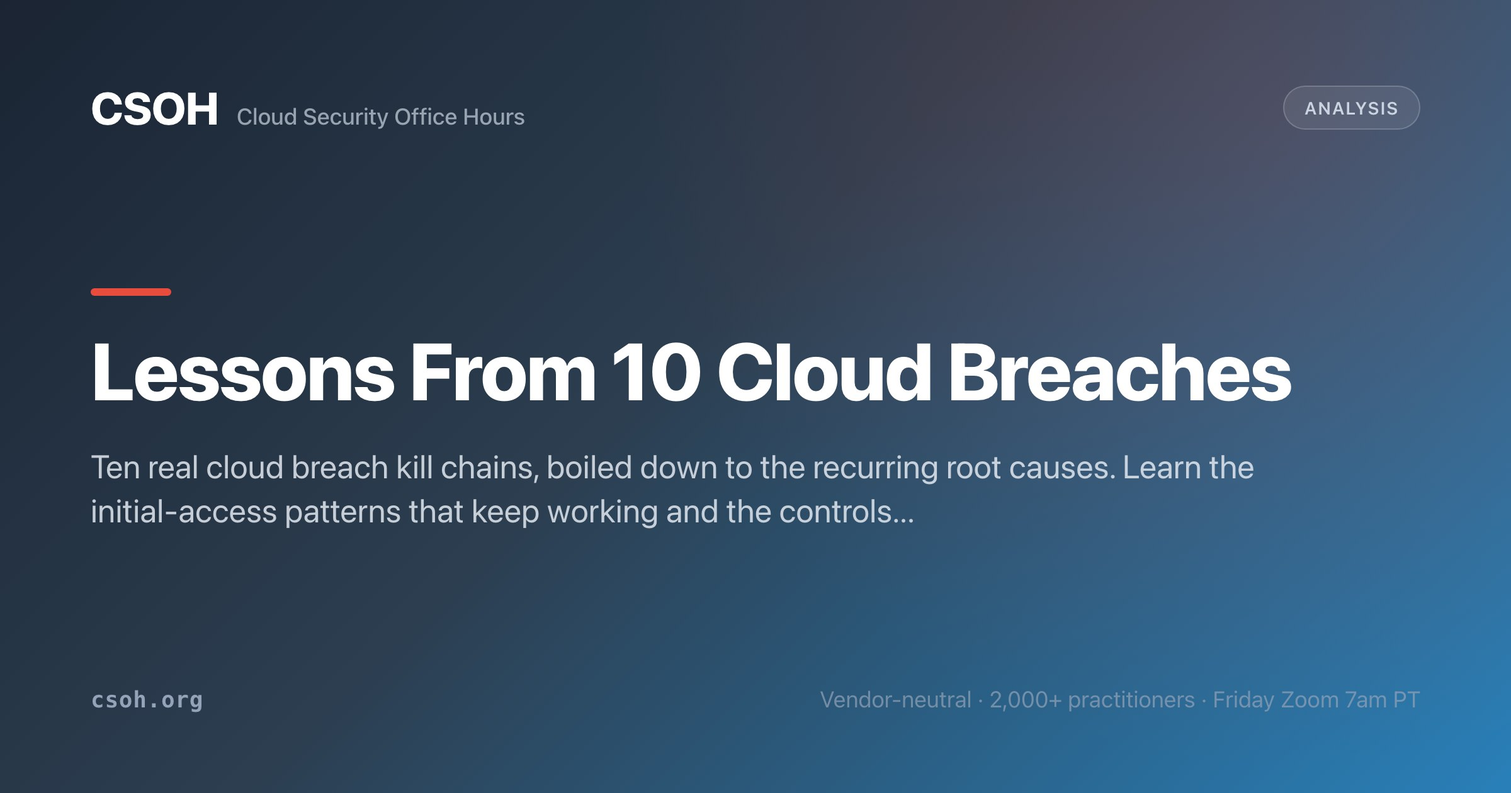
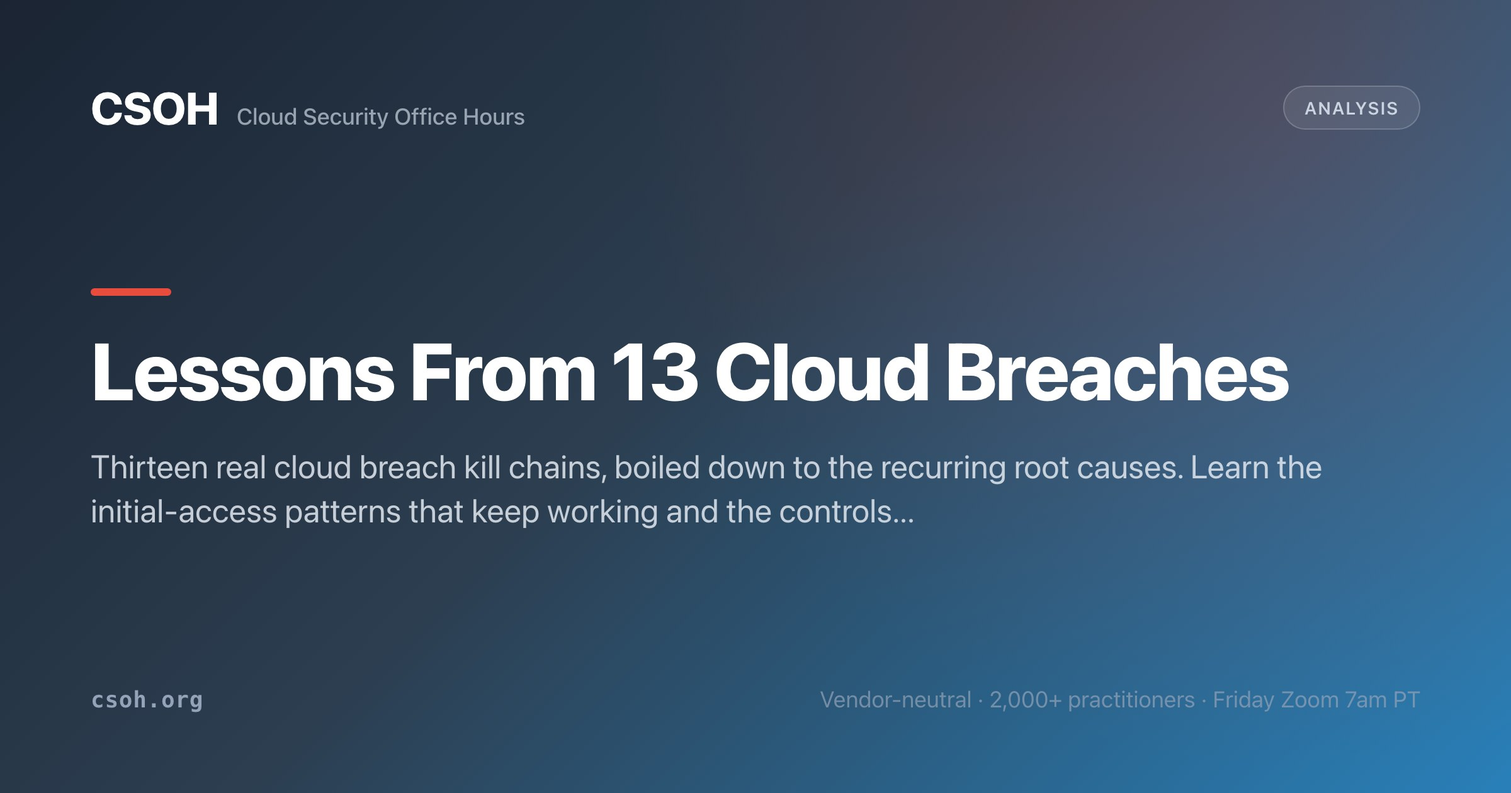
content: fold 3 new 2025 breaches into breach-lessons synthesis (10->13)
Extends Pattern 1 (credentials now include API keys + OAuth tokens),
Pattern 3 (blast radius of over-scoped keys/tokens), and Pattern 5
(supply chain is no longer a SolarWinds outlier - tj-actions + Drift).
Adds mapping-table rows, MITRE T1195.001/T1486/T1528 mappings, and the
supply-chain to-do. Updates counts and cross-page anchors to 13; regen
breach-lessons OG card.

Changed region(s): [[0.0625, 0.5571, 0.875, 0.619], [0.4062, 0.4333, 0.8438, 0.4952]]

diff --git a/breach-lessons.html b/breach-lessons.html
@@ -10,7 +10,7 @@
     <meta name="author" content="Shawn Nunley">
     <meta name="keywords"
         content="most common cloud breach root causes, cloud breach patterns, cloud breach lessons learned, initial access vectors cloud, stolen credentials breach, help desk social engineering, over-permissioned identity, missing MFA, supply chain compromise, MITRE ATT&amp;CK cloud breaches">
-    <title>Lessons From 10 Cloud Breaches - CSOH</title>
+    <title>Lessons From 13 Cloud Breaches - CSOH</title>
 
     <link rel="canonical" href="https://csoh.org/breach-lessons.html">
     <link rel="alternate" hreflang="en-US" href="https://csoh.org/breach-lessons.html">
@@ -22,7 +22,7 @@
     <meta name="theme-color" content="#0f172a">
     <meta name="apple-mobile-web-app-title" content="CSOH">
 
-    <meta property="og:title" content="Lessons From 10 Cloud Breaches - CSOH">
+    <meta property="og:title" content="Lessons From 13 Cloud Breaches - CSOH">
     <meta property="og:description"
         content="Ten real cloud breach kill chains, boiled down to the recurring root causes. Learn the initial-access patterns that keep working and the controls that stop them.">
     <meta property="og:site_name" content="Cloud Security Office Hours">
@@ -41,7 +41,7 @@
     <meta property="og:url" content="https://csoh.org/breach-lessons.html">
     <meta property="og:image" content="https://csoh.org/img/og/breach-lessons.jpg">
     <meta name="twitter:card" content="summary_large_image">
-    <meta name="twitter:title" content="Lessons From 10 Cloud Breaches">
+    <meta name="twitter:title" content="Lessons From 13 Cloud Breaches">
     <meta name="twitter:description"
         content="Ten real cloud breach kill chains, boiled down to the recurring root causes. Learn the initial-access patterns that keep working and the controls that stop them.">
     <meta name="twitter:image" content="https://csoh.org/img/og/breach-lessons.jpg">
@@ -58,7 +58,7 @@
     {
       "@context": "https://schema.org",
       "@type": "Article",
-      "headline": "Lessons From 10 Cloud Breaches",
+      "headline": "Lessons From 13 Cloud Breaches",
       "description": "Ten real cloud breach kill chains, boiled down to the recurring root causes. Learn the initial-access patterns that keep working and the controls that stop them.",
       "author": {
         "@type": "Person",
@@ -105,7 +105,7 @@
           "name": "What is the most common root cause of cloud breaches?",
           "acceptedAnswer": {
             "@type": "Answer",
-            "text": "Identity is. Across these ten kill chains, the single largest bucket is credential and identity abuse: stolen or purchased credentials, missing or bypassed MFA, and over-permissioned identities and tokens. Exploited software vulnerabilities are far down the list. If you only have budget for one thing, invest in identity."
+            "text": "Identity is. Across these thirteen kill chains, the single largest bucket is credential and identity abuse: stolen or purchased credentials, missing or bypassed MFA, and over-permissioned identities and tokens. Exploited software vulnerabilities are far down the list. If you only have budget for one thing, invest in identity."
           }
         },
         {
@@ -121,7 +121,7 @@
           "name": "How do MITRE ATT&CK techniques help me learn from breaches?",
           "acceptedAnswer": {
             "@type": "Answer",
-            "text": "Mapping each breach to ATT&CK techniques turns ten stories into a short, deduplicated list of behaviors you can build detections and controls for. When the same techniques (T1078 Valid Accounts, T1552 Unsecured Credentials) show up in breach after breach, you know exactly where to spend your detection-engineering effort first."
+            "text": "Mapping each breach to ATT&CK techniques turns thirteen stories into a short, deduplicated list of behaviors you can build detections and controls for. When the same techniques (T1078 Valid Accounts, T1552 Unsecured Credentials) show up in breach after breach, you know exactly where to spend your detection-engineering effort first."
           }
         }
       ]
@@ -307,8 +307,8 @@
     <section class="hero">
       <div class="hero-inner">
         <div class="hero-text">
-          <h1>Lessons From 10 Cloud Breaches</h1>
-          <p>Ten cloud breach kill chains, one set of recurring root causes. Read them together and the same handful of mistakes show up again and again - see the full set on the <a href="breach-timeline.html">breach timeline</a>.</p>
+          <h1>Lessons From 13 Cloud Breaches</h1>
+          <p>Thirteen cloud breach kill chains, one set of recurring root causes. Read them together and the same handful of mistakes show up again and again - see the full set on the <a href="breach-timeline.html">breach timeline</a>.</p>
           <div class="cta-buttons">
             <a href="https://csoh.kit.com/39feb4f397" class="btn btn-primary" target="_blank" rel="noopener noreferrer">Join Friday Zoom</a>
             <a href="glossary.html" class="btn btn-secondary">Cloud security glossary</a>
@@ -327,7 +327,7 @@
 </div>
 
 <div class="toc"><h2>On this page</h2><ol>
-<li><a href="#the-breaches">The ten breaches</a></li>
+<li><a href="#the-breaches">The thirteen breaches</a></li>
 <li><a href="#pattern-stolen-creds">Pattern 1: Stolen, purchased, and infostealer credentials</a></li>
 <li><a href="#pattern-help-desk">Pattern 2: Help desk and human social engineering</a></li>
 <li><a href="#pattern-over-permissioned">Pattern 3: Over-permissioned identities and tokens</a></li>
@@ -340,7 +340,7 @@
 </ol></div>
 
 <section id="the-breaches">
-<h2>The ten breaches</h2>
+<h2>The thirteen breaches</h2>
 <p>The chains synthesized here span 1994 to the present. Old and new belong on the same page on purpose: the tooling changed, the root causes did not. A phone call to a Novell help desk in 1994 and a vishing call to an MGM help desk in 2023 are the same attack.</p>
 <ul>
 <li><a href="breaches/mitnick-novell.html">Mitnick / Novell (1994)</a> - OSINT, pretexting, and a phone call talked an employee out of dial-up access and NetWare source code.</li>
@@ -353,15 +353,19 @@
 <li><a href="breaches/scattered-spider-mgm.html">Scattered Spider / MGM (2023)</a> - LinkedIn OSINT fed a vishing call to the help desk, yielding Okta super-admin, Azure AD, and encrypted ESXi servers.</li>
 <li><a href="breaches/snowflake-unc5537.html">Snowflake / UNC5537 (2024)</a> - infostealer credentials logged into accounts with no MFA, then bulk-exfiltrated data from 165+ organizations.</li>
 <li><a href="breaches/promptware.html">Promptware kill chain (2024-26)</a> - indirect prompt injection poisoned an AI agent's context, establishing persistence and covert command and control.</li>
+<li><a href="breaches/codefinger-s3.html">Codefinger / S3 (2025)</a> - stolen AWS keys encrypted victims' S3 buckets with AWS's own SSE-C, holding the only copy of the key and setting 7-day delete timers as ransom pressure.</li>
+<li><a href="breaches/tj-actions-changed-files.html">tj-actions/changed-files (2025)</a> - a compromised GitHub Action (CVE-2025-30066) was retagged to a malicious commit that dumped CI runner memory and printed secrets into public build logs across 23,000+ repositories.</li>
+<li><a href="breaches/salesloft-drift-unc6395.html">Salesloft Drift / UNC6395 (2025)</a> - stolen OAuth tokens from a third-party Salesforce integration drove bulk SOQL exfiltration across 700+ tenants, then the exports were mined for embedded cloud secrets.</li>
 </ul>
 <p>Now the patterns. Most breaches belong to more than one, because real kill chains stack failures.</p>
 </section>
 
 <section id="pattern-stolen-creds">
 <h2>Pattern 1: Stolen, purchased, and infostealer credentials</h2>
-<p><strong>Shows up in:</strong> <a href="breaches/uber.html">Uber</a>, <a href="breaches/snowflake-unc5537.html">Snowflake / UNC5537</a>, <a href="breaches/lastpass.html">LastPass</a>.</p>
+<p><strong>Shows up in:</strong> <a href="breaches/uber.html">Uber</a>, <a href="breaches/snowflake-unc5537.html">Snowflake / UNC5537</a>, <a href="breaches/lastpass.html">LastPass</a>, <a href="breaches/codefinger-s3.html">Codefinger / S3</a>, <a href="breaches/salesloft-drift-unc6395.html">Salesloft Drift / UNC6395</a>.</p>
 <p>The most boring initial-access vector is also the most common: the attacker already has a valid password. Nobody exploited a zero-day to get in. In Uber, the attacker bought a contractor's credentials off a dark-web marketplace. In Snowflake, an infostealer running on employee and contractor machines - some of them personal, unmanaged devices - harvested Snowflake logins that had been valid for years. In LastPass, the second-stage intrusion planted a keylogger on a DevOps engineer's home computer to capture the master password for a privileged vault.</p>
 <p>The lesson is that your identity perimeter includes machines you do not manage. A credential is only as trustworthy as the endpoint it was typed on, and infostealer malware has turned every unmanaged laptop into a credential faucet. The controls that matter here are phishing-resistant MFA (so a stolen password alone is useless), short-lived credentials instead of long-lived static logins, and killing standing access to sensitive systems from unmanaged devices. This is the core argument for <a href="zero-trust.html">zero trust</a>: never assume a valid credential means a trusted session.</p>
+<p>The 2025 chains extend "credential" past the password. Codefinger never touched a login screen - it authenticated with a leaked long-lived AWS access key and used it to encrypt S3 buckets. Salesloft Drift was breached with stolen OAuth tokens for a third-party integration, no password or MFA prompt involved. API keys, access keys, and OAuth tokens are credentials too, and they leak from git history, CI logs, and integration vendors just as readily as passwords leak from infostealers. Rotate them, scope them, expire them, and monitor for their use from unfamiliar sources.</p>
 </section>
 
 <section id="pattern-help-desk">
@@ -373,9 +377,10 @@
 
 <section id="pattern-over-permissioned">
 <h2>Pattern 3: Over-permissioned identities and tokens</h2>
-<p><strong>Shows up in:</strong> <a href="breaches/capital-one.html">Capital One</a>, <a href="breaches/microsoft-sas-leak.html">Microsoft SAS leak</a>, <a href="breaches/storm-0558.html">Storm-0558</a>.</p>
+<p><strong>Shows up in:</strong> <a href="breaches/capital-one.html">Capital One</a>, <a href="breaches/microsoft-sas-leak.html">Microsoft SAS leak</a>, <a href="breaches/storm-0558.html">Storm-0558</a>, <a href="breaches/codefinger-s3.html">Codefinger / S3</a>, <a href="breaches/salesloft-drift-unc6395.html">Salesloft Drift / UNC6395</a>.</p>
 <p>This is the pattern that turns a foothold into a catastrophe. In Capital One, an SSRF bug was the way in, but the reason it mattered was the IAM role reachable from the instance metadata service had far more permission than the web application needed, including broad S3 read access. In the Microsoft SAS leak, the exposed token was not just leaked, it was scoped to an entire storage account with write access and a multi-decade expiry, so a single accidental commit exposed 38TB. In Storm-0558, a single consumer signing key turned out to be usable, through a validation flaw, to forge tokens for enterprise and government accounts far beyond its intended scope.</p>
 <p>The connective tissue is blast radius. Every one of these was survivable if the compromised identity or token had been scoped to only what it needed. Least privilege is not a compliance checkbox, it is the difference between an incident and a disaster. Practically: scope tokens narrowly and give them short lifetimes, prefer <a href="iam.html">IAM</a> roles with tightly bound policies over broad ones, enforce IMDSv2 so SSRF cannot trivially steal instance credentials, and continuously audit for identities whose granted permissions vastly exceed their used permissions. This is exactly the gap a <a href="cspm-vs-cnapp.html">CNAPP</a> or CIEM tool is built to surface (disclosure: the site's author works at Wiz).</p>
+<p>The 2025 chains are pure blast-radius stories. The Codefinger keys carried enough S3 permission to both read and overwrite objects, so a single leaked key could encrypt an entire bucket. The Salesloft Drift OAuth tokens were scoped to broad Salesforce API access, so one compromised integration exposed every object in hundreds of tenants. Third-party integration tokens deserve the same least-privilege scrutiny as your own IAM roles - grant them the minimum objects and API scopes they need, and revoke the ones you no longer use.</p>
 </section>
 
 <section id="pattern-mfa">
@@ -387,16 +392,17 @@
 
 <section id="pattern-supply-chain">
 <h2>Pattern 5: Supply-chain and build-pipeline compromise</h2>
-<p><strong>Shows up in:</strong> <a href="breaches/solarwinds.html">SolarWinds</a>.</p>
-<p>SolarWinds is the outlier that everyone should study precisely because it did not follow the identity playbook. The attackers did not phish a user or steal a password to start. They compromised the build system and inserted the SUNBURST backdoor into the software itself, so that SolarWinds cryptographically signed and shipped the malware to thousands of customers as a trusted update. The victims did nothing wrong at install time; they trusted a signed update from a vendor they had every reason to trust.</p>
+<p><strong>Shows up in:</strong> <a href="breaches/solarwinds.html">SolarWinds</a>, <a href="breaches/tj-actions-changed-files.html">tj-actions/changed-files</a>, <a href="breaches/salesloft-drift-unc6395.html">Salesloft Drift / UNC6395</a>.</p>
+<p>SolarWinds was once the outlier that did not follow the identity playbook; by 2025 the supply chain is a well-worn attack surface. The attackers did not phish a user or steal a password to start. They compromised the build system and inserted the SUNBURST backdoor into the software itself, so that SolarWinds cryptographically signed and shipped the malware to thousands of customers as a trusted update. The victims did nothing wrong at install time; they trusted a signed update from a vendor they had every reason to trust.</p>
 <p>This is a different threat model, and it is why software supply chain security is its own discipline. The controls live in your <a href="ci-cd.html">CI/CD</a> pipeline: hardened and isolated build environments, verified reproducible builds, artifact signing and provenance (the SLSA framework and tools like Sigstore), and a software bill of materials so you know what is actually in what you ship and consume. It also reframes vendor risk: you inherit the security of everyone whose code runs in your environment. The later Golden SAML pivot in the same intrusion also ties back to Pattern 3, forging trusted authentication material to move from on-prem into the cloud.</p>
+<p>The 2025 chains show the supply chain moving up-stack. In tj-actions/changed-files, the compromised dependency was a single popular GitHub Action: attackers stole a bot's token, retagged every version to a malicious commit, and turned tens of thousands of CI pipelines into secret-leaking machines - a build-pipeline attack that needed no vendor of SolarWinds' size. In Salesloft Drift, the compromised link in the chain was a SaaS integration vendor whose OAuth tokens unlocked hundreds of downstream Salesforce tenants. Pin third-party actions to full commit SHAs rather than mutable tags, treat every integration you authorize as part of your attack surface, and remember that your build pipeline and your SaaS OAuth grants are supply chains too.</p>
 </section>
 
 <section id="pattern-logging">
 <h2>Pattern 6: You could not even reconstruct what happened</h2>
 <p><strong>Shows up in:</strong> <a href="breaches/storm-0558.html">Storm-0558</a> (and it made every other breach worse).</p>
 <p>Storm-0558 exposed a second, quieter failure: many affected organizations could not tell whether they had been accessed, because the relevant sign-in and mailbox-access logs were only available in higher-priced licensing tiers. When forged tokens are indistinguishable from legitimate ones, logs are the only way to find them, and if you do not have the logs, the honest answer to "were we breached" is "we cannot say." That is not an incident-response posture, it is a coin flip.</p>
-<p>Logging is not a detection nicety, it is the substrate that <a href="detection-engineering.html">detection engineering</a> and <a href="incident-response.html">incident response</a> are built on. Across all ten breaches, the ones that were caught early were caught because someone had the telemetry and was looking at it; the ones that ran for months or years (the Microsoft SAS token sat public for about three years) ran that long partly because nobody was watching the right signal. Turn on cloud audit logging (CloudTrail, Azure sign-in and audit logs, GCP audit logs), retain it long enough to matter, ship it somewhere an attacker who owns the account cannot delete it, and actually build detections on it. Storing logs you never query is a compliance artifact, not a control.</p>
+<p>Logging is not a detection nicety, it is the substrate that <a href="detection-engineering.html">detection engineering</a> and <a href="incident-response.html">incident response</a> are built on. Across all thirteen breaches, the ones that were caught early were caught because someone had the telemetry and was looking at it; the ones that ran for months or years (the Microsoft SAS token sat public for about three years) ran that long partly because nobody was watching the right signal. Turn on cloud audit logging (CloudTrail, Azure sign-in and audit logs, GCP audit logs), retain it long enough to matter, ship it somewhere an attacker who owns the account cannot delete it, and actually build detections on it. Storing logs you never query is a compliance artifact, not a control.</p>
 </section>
 
 <section id="mapping-table">
@@ -416,6 +422,9 @@
 <tr><td><a href="breaches/scattered-spider-mgm.html">Scattered Spider / MGM</a></td><td>Vishing the IT help desk</td><td>High-assurance verification for privileged recovery</td></tr>
 <tr><td><a href="breaches/snowflake-unc5537.html">Snowflake / UNC5537</a></td><td>Infostealer credentials, no MFA</td><td>Enforced MFA on every account, no exceptions</td></tr>
 <tr><td><a href="breaches/promptware.html">Promptware</a></td><td>Indirect prompt injection into an AI agent</td><td>Untrusted-content isolation + least-privilege agent tools</td></tr>
+<tr><td><a href="breaches/codefinger-s3.html">Codefinger / S3</a></td><td>Leaked long-lived AWS access key</td><td>Short-lived credentials + key-use anomaly detection</td></tr>
+<tr><td><a href="breaches/tj-actions-changed-files.html">tj-actions/changed-files</a></td><td>Compromised GitHub Action retagged to malicious commit</td><td>Pin third-party actions to full commit SHAs</td></tr>
+<tr><td><a href="breaches/salesloft-drift-unc6395.html">Salesloft Drift / UNC6395</a></td><td>Stolen OAuth tokens for a SaaS integration</td><td>Least-privilege, revocable third-party OAuth grants</td></tr>
 </tbody>
 </table>
 </div>
@@ -424,29 +433,30 @@
 
 <section id="mitre">
 <h2>MITRE ATT&amp;CK techniques across these chains</h2>
-<p>Mapping the breaches to ATT&amp;CK turns ten stories into a short, deduplicated list of behaviors you can build detections and controls around. A handful of techniques recur constantly - which tells you exactly where to point your detection engineering first.</p>
+<p>Mapping the breaches to ATT&amp;CK turns thirteen stories into a short, deduplicated list of behaviors you can build detections and controls around. A handful of techniques recur constantly - which tells you exactly where to point your detection engineering first.</p>
 <ul>
 <li><strong>T1078 Valid Accounts</strong> - the connective thread of almost the entire list. Logging in with legitimate credentials or session material appears in <a href="breaches/uber.html">Uber</a>, <a href="breaches/snowflake-unc5537.html">Snowflake</a>, <a href="breaches/lastpass.html">LastPass</a>, <a href="breaches/scattered-spider-mgm.html">Scattered Spider / MGM</a>, and <a href="breaches/mitnick-novell.html">Mitnick / Novell</a>. If you detect one thing well, detect anomalous use of valid accounts.</li>
-<li><strong>T1552 Unsecured Credentials</strong> - credentials or tokens left somewhere reachable: the IMDS role in <a href="breaches/capital-one.html">Capital One</a>, the SAS token in public GitHub in the <a href="breaches/microsoft-sas-leak.html">Microsoft SAS leak</a>, and the hardcoded PAM secret in <a href="breaches/uber.html">Uber</a>.</li>
+<li><strong>T1552 Unsecured Credentials</strong> - credentials or tokens left somewhere reachable: the IMDS role in <a href="breaches/capital-one.html">Capital One</a>, the SAS token in public GitHub in the <a href="breaches/microsoft-sas-leak.html">Microsoft SAS leak</a>, the hardcoded PAM secret in <a href="breaches/uber.html">Uber</a>, and the CI secrets printed into public logs in <a href="breaches/tj-actions-changed-files.html">tj-actions/changed-files</a>.</li>
 <li><strong>T1621 Multi-Factor Authentication Request Generation</strong> - the push-fatigue technique that helped defeat MFA in <a href="breaches/uber.html">Uber</a>.</li>
-<li><strong>T1195 Supply Chain Compromise</strong> - the defining technique of <a href="breaches/solarwinds.html">SolarWinds</a>, where the trusted software update was itself the weapon.</li>
+<li><strong>T1195 Supply Chain Compromise</strong> - the defining technique of <a href="breaches/solarwinds.html">SolarWinds</a>, where the trusted software update was itself the weapon, and of <a href="breaches/tj-actions-changed-files.html">tj-actions/changed-files</a>, where a retagged CI dependency (T1195.001) leaked secrets from tens of thousands of pipelines.</li>
 <li><strong>T1606 Forge Web Credentials</strong> - forging trusted authentication material: the stolen signing key forging tokens in <a href="breaches/storm-0558.html">Storm-0558</a> and the Golden SAML pivot in <a href="breaches/solarwinds.html">SolarWinds</a>. Closely related to the broader T1550 Use of Alternate Authentication Material pattern of abusing tokens instead of passwords.</li>
 <li><strong>T1589 Gather Victim Identity Information</strong> and <strong>T1656 Impersonation</strong> - the OSINT-then-pretext opening of <a href="breaches/scattered-spider-mgm.html">Scattered Spider / MGM</a> and <a href="breaches/mitnick-novell.html">Mitnick / Novell</a>.</li>
 <li><strong>T1566 Phishing</strong> - social-engineering delivery, present in the <a href="breaches/scattered-spider-mgm.html">Scattered Spider / MGM</a> and <a href="breaches/mitnick-novell.html">Mitnick / Novell</a> chains.</li>
-<li><strong>T1530 Data from Cloud Storage</strong> and <strong>T1486 Data Encrypted for Impact</strong> - the impact end of the chains: bulk cloud-storage exfiltration in <a href="breaches/snowflake-unc5537.html">Snowflake</a>, <a href="breaches/lastpass.html">LastPass</a>, and the <a href="breaches/microsoft-sas-leak.html">Microsoft SAS leak</a>, and ESXi ransomware in <a href="breaches/scattered-spider-mgm.html">MGM</a>.</li>
+<li><strong>T1530 Data from Cloud Storage</strong> and <strong>T1486 Data Encrypted for Impact</strong> - the impact end of the chains: bulk cloud-storage exfiltration in <a href="breaches/snowflake-unc5537.html">Snowflake</a>, <a href="breaches/lastpass.html">LastPass</a>, and the <a href="breaches/microsoft-sas-leak.html">Microsoft SAS leak</a>, ESXi ransomware in <a href="breaches/scattered-spider-mgm.html">MGM</a>, and SSE-C bucket encryption in <a href="breaches/codefinger-s3.html">Codefinger / S3</a>.</li>
+<li><strong>T1528 Steal Application Access Token</strong> - abusing OAuth tokens instead of passwords, the entire basis of <a href="breaches/salesloft-drift-unc6395.html">Salesloft Drift / UNC6395</a>, where stolen third-party integration tokens drove bulk data theft across hundreds of SaaS tenants.</li>
 </ul>
 <p>The pattern in the ATT&amp;CK view matches the pattern in the table: the recurring techniques cluster around identity (T1078, T1552, T1621, T1606) and social engineering (T1589, T1656, T1566), not around exotic exploitation. Build your detection library outward from there.</p>
 </section>
 
 <section id="what-to-do">
 <h2>What to actually do about it</h2>
-<p>If you compress all ten breaches into a to-do list, it is short and unglamorous:</p>
+<p>If you compress all thirteen breaches into a to-do list, it is short and unglamorous:</p>
 <ol>
 <li><strong>Enforce phishing-resistant MFA everywhere, with zero exceptions.</strong> No carve-outs for contractors, service accounts, or legacy integrations. Attackers find the one door without a lock (Snowflake, Uber).</li>
 <li><strong>Practice ruthless least privilege on identities and tokens.</strong> Scope narrowly, expire quickly, prefer roles over long-lived keys, and continuously audit granted-versus-used permission gaps (Capital One, Microsoft SAS leak, Storm-0558). See <a href="iam.html">IAM</a>.</li>
 <li><strong>Harden your recovery and help-desk flows as high-assurance operations.</strong> The account-recovery process is the attack surface (Mitnick, MGM, Uber).</li>
 <li><strong>Assume unmanaged endpoints are compromised.</strong> Keep privileged access off devices you do not control (LastPass, Snowflake).</li>
-<li><strong>Secure the build pipeline and know your dependencies.</strong> Provenance, signing, and an SBOM in your <a href="ci-cd.html">CI/CD</a> flow (SolarWinds).</li>
+<li><strong>Secure the build pipeline and know your dependencies.</strong> Provenance, signing, an SBOM, and third-party actions pinned to commit SHAs in your <a href="ci-cd.html">CI/CD</a> flow (SolarWinds, tj-actions/changed-files). Treat SaaS OAuth integrations as part of that supply chain too (Salesloft Drift).</li>
 <li><strong>Turn on complete, tamper-resistant audit logging and actually build detections on it.</strong> You cannot respond to what you cannot see (Storm-0558, and every long-dwell breach here). See <a href="detection-engineering.html">detection engineering</a> and <a href="incident-response.html">incident response</a>.</li>
 </ol>
 <p>None of this is exotic. That is the point. These breaches did not fall to novel research; they fell to fundamentals that were skipped, scoped too broadly, or turned off for convenience. If you want a worked example of these same controls applied to a real (small) production system, this site documents its own setup in <a href="how-csoh-org-is-secured.html">how CSOH.org is secured</a>.</p>
@@ -461,7 +471,7 @@
             <h2>Quick answers</h2>
             <details open>
                 <summary><strong>What is the most common root cause of cloud breaches?</strong></summary>
-                <p>Identity is. Across these ten kill chains, the single largest bucket is credential and identity abuse: stolen or purchased credentials, missing or bypassed MFA, and over-permissioned identities and tokens. Exploited software vulnerabilities are far down the list. If you only have budget for one thing, invest in identity.</p>
+                <p>Identity is. Across these thirteen kill chains, the single largest bucket is credential and identity abuse: stolen or purchased credentials, missing or bypassed MFA, and over-permissioned identities and tokens. Exploited software vulnerabilities are far down the list. If you only have budget for one thing, invest in identity.</p>
             </details>
             <details>
                 <summary><strong>Would MFA have stopped all of these breaches?</strong></summary>
@@ -469,7 +479,7 @@
             </details>
             <details>
                 <summary><strong>How do MITRE ATT&amp;CK techniques help me learn from breaches?</strong></summary>
-                <p>Mapping each breach to ATT&amp;CK techniques turns ten stories into a short, deduplicated list of behaviors you can build detections and controls for. When the same techniques (T1078 Valid Accounts, T1552 Unsecured Credentials) show up in breach after breach, you know exactly where to spend your detection-engineering effort first.</p>
+                <p>Mapping each breach to ATT&amp;CK techniques turns thirteen stories into a short, deduplicated list of behaviors you can build detections and controls for. When the same techniques (T1078 Valid Accounts, T1552 Unsecured Credentials) show up in breach after breach, you know exactly where to spend your detection-engineering effort first.</p>
             </details>
         </section>
 

diff --git a/breach-timeline.html b/breach-timeline.html
@@ -371,7 +371,7 @@
 
     <div class="container" style="padding-top:1.5rem; padding-bottom:0;">
         <div class="info-box--blue">
-            <p><strong>Want to practice these techniques?</strong> Try the <a href="ctfs.html">cloud security CTF challenges</a> - many cover the same attack patterns (<a class="glossary-link" href="glossary.html#term-ssrf">SSRF</a>, <a class="glossary-link" href="glossary.html#term-iam">IAM</a> exploitation, token abuse). Unfamiliar with terms like <a class="glossary-link" href="glossary.html#term-imds">IMDSv2</a>, <a class="glossary-link" href="glossary.html#term-oidc">OIDC</a>, or <a class="glossary-link" href="glossary.html#term-golden-saml">Golden SAML</a>? See the <a href="glossary.html">cloud security glossary</a>. For the recurring patterns across all of these chains, read <a href="breach-lessons.html">Lessons From 10 Cloud Breaches</a>. For broader context on threat actors and trends, browse the <a href="threat-research.html">cloud threat research directory</a> or the <a href="what-is-cloud-security.html">cloud security overview</a>. The 1994 Mitnick/Novell entry below has a personal backstory - CSOH founder Shawn Nunley was Mitnick's target; see also the <a href="kevin-mitnick.html">Kevin Mitnick - In Memoriam</a> tribute.</p>
+            <p><strong>Want to practice these techniques?</strong> Try the <a href="ctfs.html">cloud security CTF challenges</a> - many cover the same attack patterns (<a class="glossary-link" href="glossary.html#term-ssrf">SSRF</a>, <a class="glossary-link" href="glossary.html#term-iam">IAM</a> exploitation, token abuse). Unfamiliar with terms like <a class="glossary-link" href="glossary.html#term-imds">IMDSv2</a>, <a class="glossary-link" href="glossary.html#term-oidc">OIDC</a>, or <a class="glossary-link" href="glossary.html#term-golden-saml">Golden SAML</a>? See the <a href="glossary.html">cloud security glossary</a>. For the recurring patterns across all of these chains, read <a href="breach-lessons.html">Lessons From 13 Cloud Breaches</a>. For broader context on threat actors and trends, browse the <a href="threat-research.html">cloud threat research directory</a> or the <a href="what-is-cloud-security.html">cloud security overview</a>. The 1994 Mitnick/Novell entry below has a personal backstory - CSOH founder Shawn Nunley was Mitnick's target; see also the <a href="kevin-mitnick.html">Kevin Mitnick - In Memoriam</a> tribute.</p>
         </div>
     </div>
 

diff --git a/tools/generate_og_images.py b/tools/generate_og_images.py
@@ -270,8 +270,8 @@ PAGES = [
      "Strict CSP, SRI on every asset, HSTS and Cross-Origin isolation, keyless OIDC deploys, a Trivy-scanned pipeline - and how to verify each claim yourself.",
      "Security"),
     ("breach-lessons.html",
-     "Lessons From 10 Cloud Breaches",
-     "Ten real cloud breach kill chains, boiled down to the recurring root causes. Learn the initial-access patterns that keep working and the controls...",
+     "Lessons From 13 Cloud Breaches",
+     "Thirteen real cloud breach kill chains, boiled down to the recurring root causes. Learn the initial-access patterns that keep working and the controls...",
      "Analysis"),
     ("cloud-security-interview-questions.html",
      "Cloud Security Interview Questions",

diff --git a/seo-audits/2026-07-04-deep-analysis.md b/seo-audits/2026-07-04-deep-analysis.md
@@ -59,7 +59,7 @@ Multi-agent qualitative analysis (15 agents: 10 site-slice readers + 3 external 
 - [x] **non-human-identity.html + mcp-security.html** - two new pillar-grade topic guides (drafted via workflow, wired + verified).
 - [x] **Interview-questions hub + resume guide** - cloud-security-interview-questions.html (45+ Qs by domain, with model-answer guidance + paste-in artifacts) and cloud-security-resume-guide.html (before/after bullets).
 - [x] **Career-question pages** - get-into-cloud-security-no-experience.html and is-cloud-security-a-good-career.html.
-- [ ] 2-3 new kill chains: Salesloft Drift/UNC6395, Codefinger S3, tj-actions.
+- [x] **3 new kill chains** - breaches/codefinger-s3.html (S3 SSE-C ransomware, Jan 2025), breaches/tj-actions-changed-files.html (CVE-2025-30066 CI/CD supply-chain, Mar 2025), breaches/salesloft-drift-unc6395.html (OAuth token theft -> bulk SOQL exfil, Aug 2025). Each: 5-step MITRE-mapped chain, def-box, primary sources, defense-topics. Registered: cards + ItemList (10->13) + pager chain (snowflake now has a next) + sitemap + llms.txt + OG images + search index. Fact-verified via WebSearch; drafted with a 3-agent workflow. Shipped 9be06d2f.
 - [x] **breach-lessons.html** - synthesis of recurring root causes across the 10 breach kill chains + a MITRE ATT&CK technique section; links each breach page.
 - [x] **Comparison pages** - cnapp-vs-xdr.html and cspm-vs-cwpp.html (category comparisons with tables; no vendor head-to-heads).
 - [ ] First-party data: quarterly community-pulse report, annual Cloud Breach Year in Review.

diff --git a/tools/awesome-list-submissions.md b/tools/awesome-list-submissions.md
@@ -188,7 +188,7 @@ existing `cloud-security.md` if there's a dedicated file.
 **Entry text:**
 
 ```markdown
-- [Cloud Security Office Hours](https://csoh.org/) - Community-run vendor-neutral cloud-security hub. Weekly Friday Zoom (7am PT), pillar guides, [230+ term glossary](https://csoh.org/glossary.html), [10 breach kill chains](https://csoh.org/breach-timeline.html) mapped to MITRE ATT&CK Cloud, [91 weekly meeting recaps](https://csoh.org/meetings.html), [37+ CTFs](https://csoh.org/ctfs.html).
+- [Cloud Security Office Hours](https://csoh.org/) - Community-run vendor-neutral cloud-security hub. Weekly Friday Zoom (7am PT), pillar guides, [230+ term glossary](https://csoh.org/glossary.html), [13 breach kill chains](https://csoh.org/breach-timeline.html) mapped to MITRE ATT&CK Cloud, [91 weekly meeting recaps](https://csoh.org/meetings.html), [37+ CTFs](https://csoh.org/ctfs.html).
 ```
 
 ---
